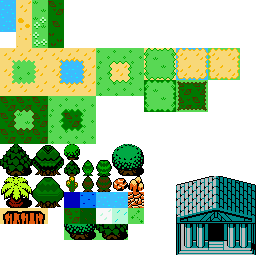
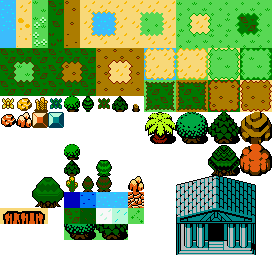
WFC First steps

diff --git a/src/WFCMap.hpp b/src/WFCMap.hpp
@@ -1,0 +1,154 @@
+//
+// Created by Stephan Bruny on 25.03.23.
+//
+
+#ifndef ZOIDAR_WFCMAP_HPP
+#define ZOIDAR_WFCMAP_HPP
+
+#include <vector>
+#include <random>
+
+struct TileRelation {
+    int id;
+    std::vector<int> possibleNeighborsTop;
+    std::vector<int> possibleNeighborsRight;
+    std::vector<int> possibleNeighborsBottom;
+    std::vector<int> possibleNeighborsLeft;
+};
+
+const TileRelation water {
+    0,
+    { 0, 5, 6, 7, 17, 34, 77, 78 },
+    { 0, 17, 34, 7,24, 41,60, 77 },
+    { 0, 17, 34, 40, 60, 61 },
+    { 0, 6, 17, 5, 22, 39, 61, 78 }
+};
+
+const TileRelation sand {
+    1,
+    { 1, 18, 35, 6, 11, 12, 13,39, 40, 41,  61, 64, 101 },
+    { 1, 18, 35, 5, 22, 39, 8,  25, 42, 28, 79, 82, 76 },
+    { 1, 18, 35, 5, 6, 7, 8, 9, 10, 46, 77, 78, 79, 80  },
+    { 1, 18, 35, 7, 24, 41, 10, 27, 44,  28, 60, 77, 62, 79, 65, 82, 99 }
+};
+
+const TileRelation grass {
+        2,
+        { 2, 19,  36, 46, 79, 80 },
+        { 2, 19,  36, 27, 28, 63, 80 },
+        { 2, 19,  36, 11, 12, 13, 62, 63 },
+        { 2, 19,  36, 25, 13, 30, 47, 62, 79 }
+};
+
+enum Biom {
+    WATER,
+    SAND,
+    GRASS
+};
+
+enum class NeighborDirection {
+    Top,
+    Right,
+    Bottom,
+    Left
+};
+
+class WFCMap {
+public:
+    std::vector<int> tiles;
+    int map_width;
+
+    WFCMap(int size, int width): tiles(size, -1) {
+        this->map_width = width;
+    }
+
+    TileRelation getByBiom(Biom biom) {
+        if (biom == WATER) return water;
+        if (biom == SAND) return sand;
+        return grass;
+    }
+
+    std::vector<int> getTileRelationsByDirection(TileRelation tiles, NeighborDirection dir) {
+        switch (dir) {
+            case NeighborDirection::Top:
+                return tiles.possibleNeighborsTop;
+                break;
+            case NeighborDirection::Right:
+                return tiles.possibleNeighborsRight;
+                break;
+            case NeighborDirection::Bottom:
+                return tiles.possibleNeighborsBottom;
+                break;
+            default:
+                return tiles.possibleNeighborsLeft;
+        }
+    }
+
+    NeighborDirection getOppositeDirection(NeighborDirection dir) {
+        switch (dir) {
+            case NeighborDirection::Top:
+                return NeighborDirection::Bottom;
+                break;
+            case NeighborDirection::Right:
+                return NeighborDirection::Left;
+                break;
+            case NeighborDirection::Bottom:
+                return NeighborDirection::Top;
+                break;
+            default:
+                return NeighborDirection::Right;
+        }
+    }
+
+    std::vector<int> findCandidates(int id, NeighborDirection dir) {
+        for (int b = 0; b <= GRASS; b++) {
+            auto tiles = getByBiom((Biom)b);
+            auto odir = getOppositeDirection(dir);
+            auto refTiles = getTileRelationsByDirection(tiles, odir);
+            for (int &c : tiles.possibleNeighborsRight) {
+                if (c == id) return getTileRelationsByDirection(tiles, dir);
+            }
+        }
+        return { -1 };
+    }
+
+    int getIndex(int x, int y) {
+        return y * this->map_width + x;
+    }
+
+    int getTileAt(int x, int y) {
+        int index = y * this->map_width + x;
+        return this->tiles[index];
+    }
+
+    void generate() {
+        std::random_device rd;
+        std::mt19937 gen(rd());
+        std::uniform_int_distribution<> dis(0, 2);
+        Biom randomBiom = (Biom)dis(gen);
+        TileRelation tiles = this->getByBiom(randomBiom);
+        this->tiles[0] = tiles.id;
+
+        for(int i = 1; i < this->tiles.size(); i++) {
+            int x = i % this->map_width;
+            int y = i / this->map_width;
+            std::vector<int> entropy;
+            if (x > 0) {
+                auto leftCandiates = findCandidates(getTileAt(x - 1, y), NeighborDirection::Right);
+                entropy.insert(entropy.end(), leftCandiates.begin(), leftCandiates.end());
+            }
+            if (y > 0) {
+                auto topCandiates = findCandidates(getTileAt(x, y - 1), NeighborDirection::Bottom);
+                entropy.insert(entropy.end(), topCandiates.begin(), topCandiates.end());
+            }
+            std::uniform_int_distribution<> entropy_dist(0, entropy.size());
+            this->tiles[i] = entropy_dist(gen);
+        }
+    }
+
+    std::vector<int> getMap() {
+        return this->tiles;
+    }
+};
+
+#endif //ZOIDAR_WFCMAP_HPP

diff --git a/main.cpp b/main.cpp
@@ -6,6 +6,7 @@
 #include "src/Process.h"
 #include "src/Tilemap.hpp"
 #include "lib/Perlin-Noise.hpp"
+#include "src/WFCMap.hpp"
 
 constexpr Color CLEAR_COLOR = Color { 0, 0, 0, 255 };
 constexpr double UPDATE_DELAY = 0.008;
@@ -27,6 +28,8 @@ int main()
     auto deltaTime = std::atomic<double>(0);
     auto currentTime = std::atomic<double>(0);
     auto isUpdateFinished = std::atomic<bool>(false);
+    auto wfcMap = WFCMap(20 * 14, 20);
+
 
     Vector2 virtualResolution = getVirtualResolution();
     Vector2 screenResolution = getScreenResolution();
@@ -48,7 +51,7 @@ int main()
 
     auto textures = std::make_unique<Textures>();
     textures->load("assets/ship.png");
-    textures->load("assets/tiles.png");
+    textures->load("assets/tiles-extended.png");
     textures->load("assets/tiles-obstacles.png");
 
     auto sprite = std::make_unique<Sprite>(textures->get("assets/ship.png"));
@@ -57,7 +60,7 @@ int main()
 
     Tilemap tilemap(20, 14, 16, 16);
     Tilemap tilemap_2(20, 14, 16, 16);
-    tilemap.setTexture(textures->get("assets/tiles.png"));
+    tilemap.setTexture(textures->get("assets/tiles-extended.png"));
     tilemap_2.setTexture(textures->get("assets/tiles-obstacles.png"));
 
     int map_x = 0;
@@ -65,11 +68,12 @@ int main()
     float map_z = 0.01;
 
     auto createMap = [&](){
-        for (int x = 0; x < tilemap.size.width; x++) {
-            for (int y = 0; y < tilemap.size.height; y++) {
-                const double noise = perlin.noise2D(((x + map_x) * map_z), ((y + map_y) * map_z)) * 10;
-                tilemap.setTile(x, y, 0, (int)noise);
-            }
+        wfcMap.generate();
+        auto map = wfcMap.getMap();
+        for (int i = 0; i < map.size(); i++) {
+            int x = i % wfcMap.map_width;
+            int y = i / wfcMap.map_width;
+            tilemap.setTile(x, y, 0, map[i]);
         }
     };
 
@@ -105,8 +109,11 @@ int main()
             map_x += mx;
             map_y += my;
             map_z = mz;
+            // createMap();
+            // createUpperLayerMap();
+        }
+        if (IsKeyDown(KEY_N)) {
             createMap();
-            createUpperLayerMap();
         }
         return true;
     };
@@ -139,7 +146,7 @@ int main()
         BeginTextureMode(canvas);
         ClearBackground(CLEAR_COLOR);
         tilemap.draw();
-        tilemap_2.draw();
+        // tilemap_2.draw();
         sprite->draw();
         EndTextureMode();
 
